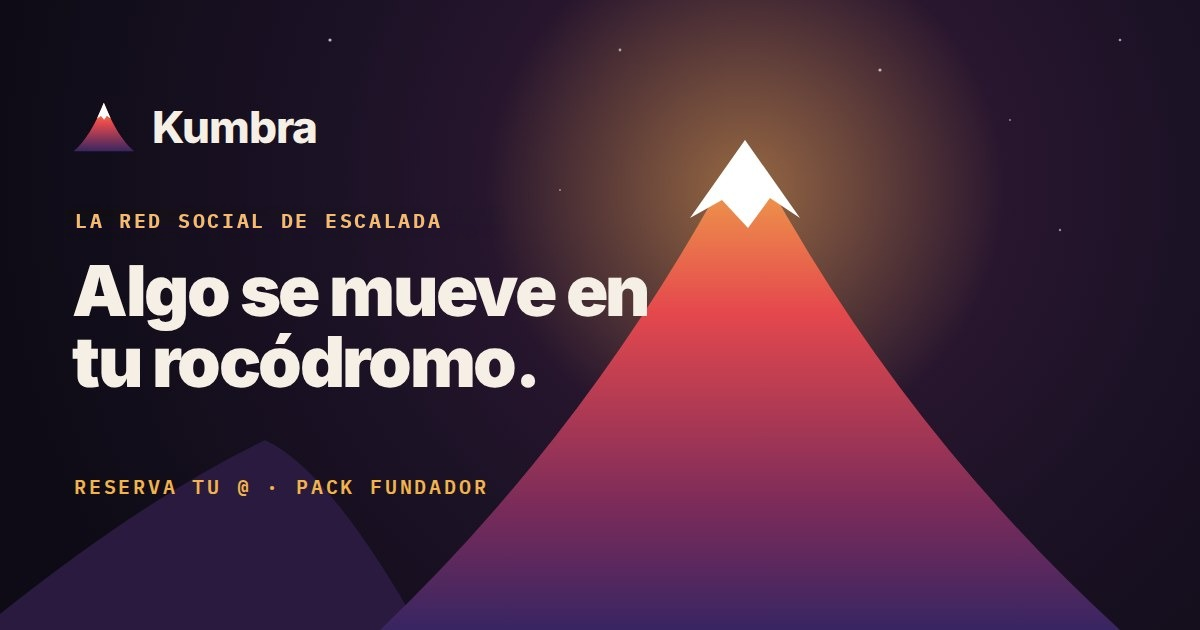
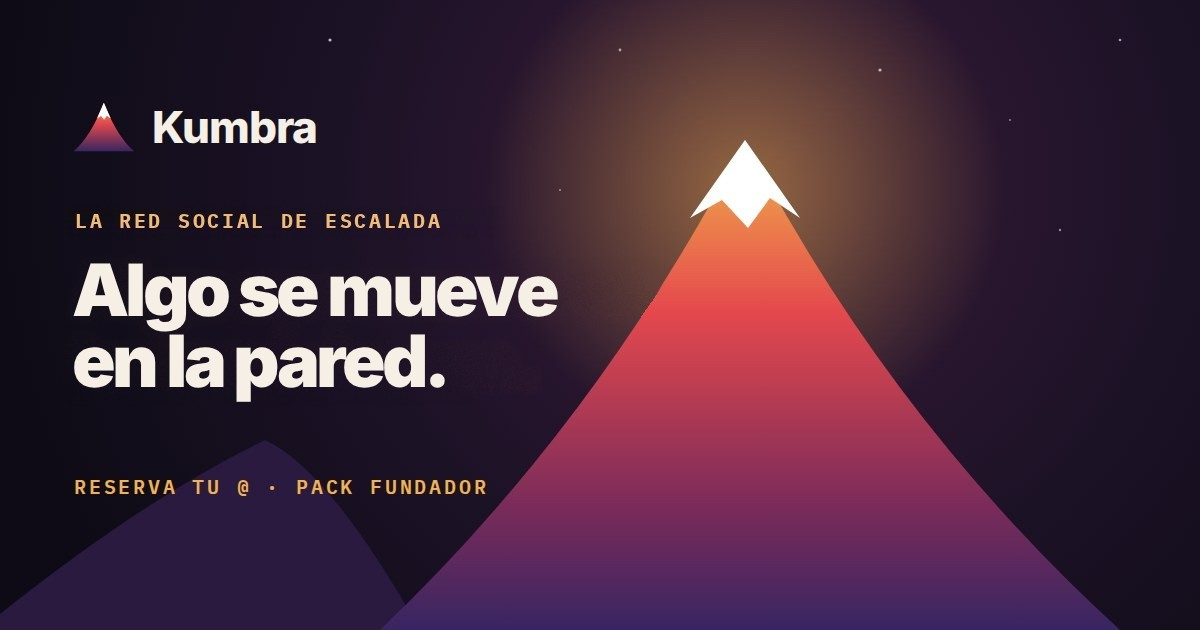
Web: «Algo se mueve en la pared» en el titular, la vista previa y la imagen al compartir

Changed region(s): [[0.0617, 0.4222, 0.555, 0.6333], [0.0925, 0.4222, 0.1542, 0.5127]]

diff --git a/kumbra/index.html b/kumbra/index.html
@@ -4,15 +4,15 @@
   <meta charset="utf-8">
   <meta name="viewport" content="width=device-width, initial-scale=1, viewport-fit=cover">
   <title>Kumbra</title>
-  <meta name="description" content="Algo se mueve en tu rocódromo. La red social de escalada, muy pronto. Reserva tu nombre antes que nadie.">
-  <meta property="og:title" content="Kumbra · Algo se mueve en tu rocódromo">
+  <meta name="description" content="Algo se mueve en la pared. La red social de escalada, muy pronto. Reserva tu nombre antes que nadie.">
+  <meta property="og:title" content="Kumbra · Algo se mueve en la pared">
   <meta property="og:description" content="La red social de escalada. Muy pronto. Reserva tu @ antes que nadie.">
   <meta property="og:type" content="website">
   <meta property="og:url" content="https://www.axclimb.com/kumbra">
-  <meta property="og:image" content="https://www.axclimb.com/kumbra/og.jpg?v=2">
+  <meta property="og:image" content="https://www.axclimb.com/kumbra/og.jpg?v=3">
   <meta property="og:image:width" content="1200">
   <meta property="og:image:height" content="630">
-  <meta property="og:image:alt" content="Kumbra: una montaña de noche y el texto «Algo se mueve en tu rocódromo»">
+  <meta property="og:image:alt" content="Kumbra: una montaña de noche y el texto «Algo se mueve en la pared»">
   <meta name="twitter:card" content="summary_large_image">
   <link rel="apple-touch-icon" href="/kumbra/apple-touch-icon.png">
   <meta name="theme-color" content="#0E0B16">
@@ -258,7 +258,7 @@ body.exploring .title, body.exploring .draghint { opacity: 0 !important; pointer
 
     <section class="title">
       <span class="mono kicker"><i></i>La red social de escalada</span>
-      <h1 id="h1">Algo se mueve en tu rocódromo.</h1>
+      <h1 id="h1">Algo se mueve en la pared.</h1>
       <p class="whisper" id="whisper">&nbsp;</p>
     </section>
 
@@ -345,7 +345,7 @@ body.exploring .title, body.exploring .draghint { opacity: 0 !important; pointer
   // ================= Words =================
   var h1 = document.getElementById("h1");
   h1.innerHTML = h1.textContent.split(" ").map(function (w, i) { return '<span style="animation-delay:' + (0.5 + i * 0.16) + 's">' + w + "</span>"; }).join(" ");
-  var WHISPERS = ["Mira quién ha escalado hoy en tu rocódromo.", "Cada bloque que encadenas se pierde. Hasta ahora.", "Tus amigos van a querer verlo.", "Reta a tu gente y a ver quién suma más.", "Los primeros se quedan con su nombre."];
+  var WHISPERS = ["Mira quién ha escalado hoy.", "Cada bloque que encadenas se pierde. Hasta ahora.", "Tus amigos van a querer verlo.", "Reta a tu gente y a ver quién suma más.", "Los primeros se quedan con su nombre."];
   var wEl = document.getElementById("whisper"), wi = 0;
   function whisper() { wEl.classList.add("out"); setTimeout(function () { wEl.textContent = WHISPERS[wi++ % WHISPERS.length]; wEl.classList.remove("out"); }, 600); }
   setTimeout(function () { whisper(); setInterval(whisper, 4200); }, 1700);

diff --git a/invita/index.html b/invita/index.html
@@ -7,7 +7,7 @@
   <meta name="description" content="Un amigo te invita a Kumbra, una app de escalada que está a punto de salir.">
   <meta property="og:title" content="Te invitan a Kumbra">
   <meta property="og:description" content="Una app de escalada. Pronto. Reserva tu nombre antes que nadie.">
-  <meta property="og:image" content="https://www.axclimb.com/kumbra/og.jpg?v=2">
+  <meta property="og:image" content="https://www.axclimb.com/kumbra/og.jpg?v=3">
   <meta name="twitter:card" content="summary_large_image">
   <meta name="robots" content="noindex">
   <meta name="theme-color" content="#0E0B16">
